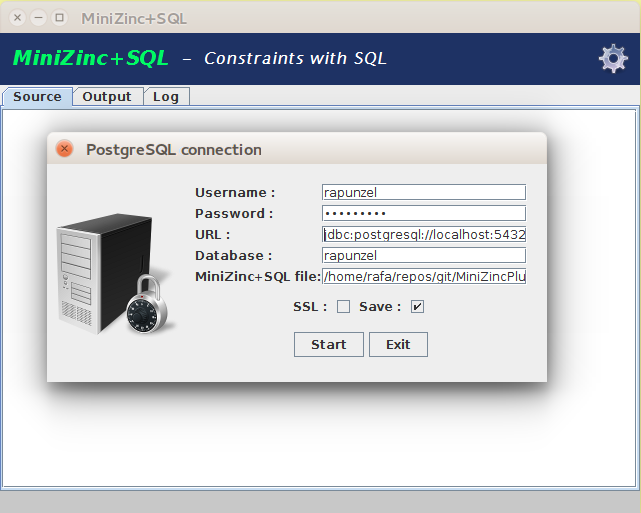
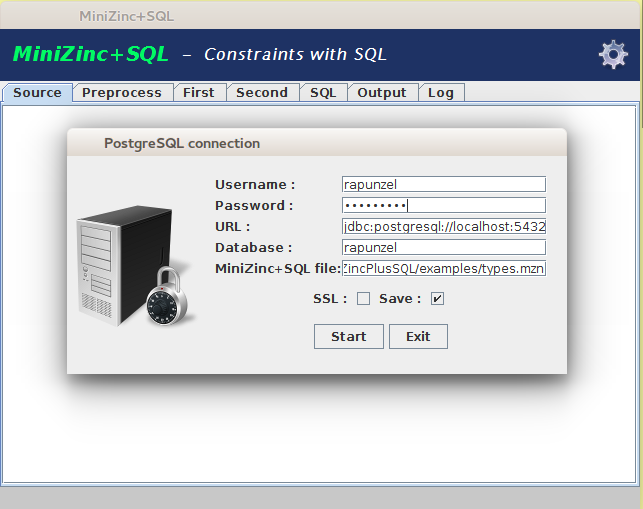
Improving entry information in README.md with jar link

Changed region(s): [[0.0, 0.0, 1.0, 0.9725]]

diff --git a/src/gui/MainFrame.java b/src/gui/MainFrame.java
@@ -87,9 +87,11 @@ public class MainFrame extends JFrame implements ViewInterface {
 	final private SyntaxDocument docPrepro = new SyntaxDocument();
 	final private SyntaxDocument docFirstPhase = new SyntaxDocument();
 	final private SyntaxDocument docSecondPhase = new SyntaxDocument();
+	final private SyntaxDocument docThirdPhase = new SyntaxDocument();
 	private JTextPane preprocessSourceCode;
 	private JTextPane firstPhaseSourceCode;
 	private JTextPane secondPhaseSourceCode;
+	private JTextPane thirdPhaseSourceCode;
 	private JTextPane output;
 
 	/**
@@ -184,6 +186,10 @@ public class MainFrame extends JFrame implements ViewInterface {
 		secondPhaseSourceCode = new JTextPane(this.docSecondPhase);
 		JScrollPane secondPhaseTextView = new JScrollPane(secondPhaseSourceCode);
 		center.addTab("Second", null, secondPhaseTextView, "MiniZinc+SQL after second phase");
+
+		thirdPhaseSourceCode = new JTextPane(this.docThirdPhase);
+		JScrollPane thirdPhaseTextView = new JScrollPane(thirdPhaseSourceCode);
+		center.addTab("SQL", null, thirdPhaseTextView, "SQL after third phase");
 
 		this.output = new JTextPane();
 		JScrollPane outputView = new JScrollPane(output);

diff --git a/README.md b/README.md
@@ -9,7 +9,10 @@ Solves models based on the combination of MiniZinc and SQL.
 * minizinc 2.0 or newer
 
 ## Usage
-Execute the file and introduce the data in the entry window:
+Start with java -jar [mzn+sql.jar](https://github.com/RafaelCaballero/MiniZincPlusSQL/raw/master/mzn%2Bsql.jar)
+   
+
+and introduce the data in the entry window:
 
 ![Entry screen](https://github.com/RafaelCaballero/MiniZincPlusSQL/blob/master/src/resources/entry.png) 
 
